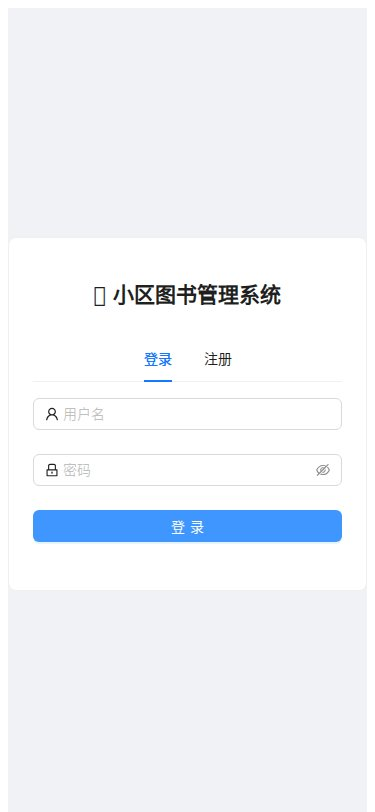
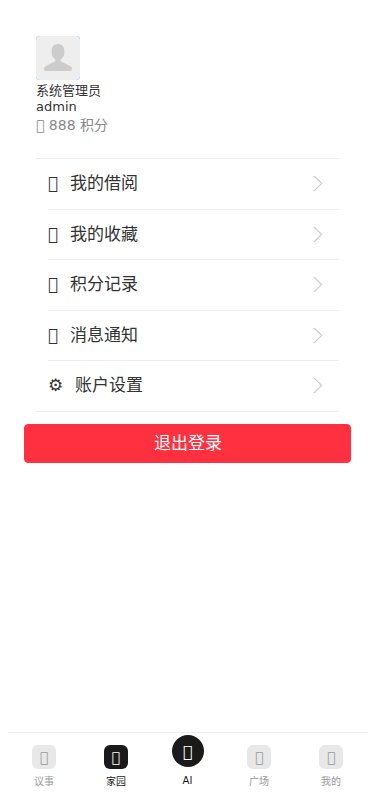
feat(mobile): MobileGarden 家园页面贡献榜（贡献等级/楼栋/小区总榜）
新增页面：
- MobileGarden.js: 贡献榜主组件，含 Tab 切换（按楼栋/小区总榜）
- MobileGarden.css: 完整样式
- MobileGarden.test.js: 20 个测试用例
- docs/mobile-garden-design.md: 设计文档

功能：
- 贡献等级（金牌★★★/银牌★★/铜牌★）
- 楼栋视角：每栋卡片 Top3 + 可展开完整榜单
- 小区总榜：全社区 Top 10 住户排名
- Tab 切换：按楼栋 / 小区总榜双视角

修复：
- AppLayoutMobileYishi: ErrorBoundary 捕获渲染错误
- MobileProfile: 移除 Card.Body（antd-mobile 5.x 语法变更）

路由：/mobile/garden -> MobileGarden
测试：CI=true npm test -- --testPathPattern=MobileGarden.test.js（20/20 passed）

diff --git a/frontend/scripts/check-route-detailed.js b/frontend/scripts/check-route-detailed.js
@@ -1,0 +1,51 @@
+const { chromium } = require('playwright');
+
+(async () => {
+  const browser = await chromium.launch({ headless: true });
+  const page = await browser.newPage();
+  await page.setViewportSize({ width: 375, height: 812 });
+  
+  // Monitor responses
+  page.on('response', resp => {
+    if (resp.status() >= 400) console.log('HTTP', resp.status(), resp.url());
+  });
+
+  await page.goto('http://localhost:3000/mobile/login', { waitUntil: 'networkidle', timeout: 15000 });
+  await page.waitForTimeout(2000);
+  await page.fill('input[placeholder="用户名"]', 'admin');
+  await page.fill('input[placeholder="密码"]', 'admin123');
+  const submitBtn = await page.$('button[type="submit"]') || await page.$('button');
+  await submitBtn.click();
+  await page.waitForTimeout(5000);
+  console.log('After login URL:', page.url());
+
+  await page.goto('http://localhost:3000/mobile', { waitUntil: 'networkidle', timeout: 15000 });
+  await page.waitForTimeout(2000);
+  
+  // Intercept ALL route changes
+  let routeChanges = [];
+  await page.exposeFunction('onRouteChange', (url) => {
+    routeChanges.push(url);
+  });
+  
+  // Click the garden tab
+  const gardenTab = await page.$('.nav-item:nth-child(2)');
+  console.log('Clicking garden tab...');
+  
+  // Set up URL observer before clicking
+  page.on('urlchange', url => {
+    console.log('URL changed to:', url);
+  });
+  
+  await gardenTab.click();
+  await page.waitForTimeout(5000);
+  
+  const url = page.url();
+  const content = await page.evaluate(() => document.body.innerText);
+  
+  console.log('Final URL:', url);
+  console.log('Content:', content.substring(0, 200));
+  console.log('Route changes:', routeChanges);
+  
+  await browser.close();
+})();
